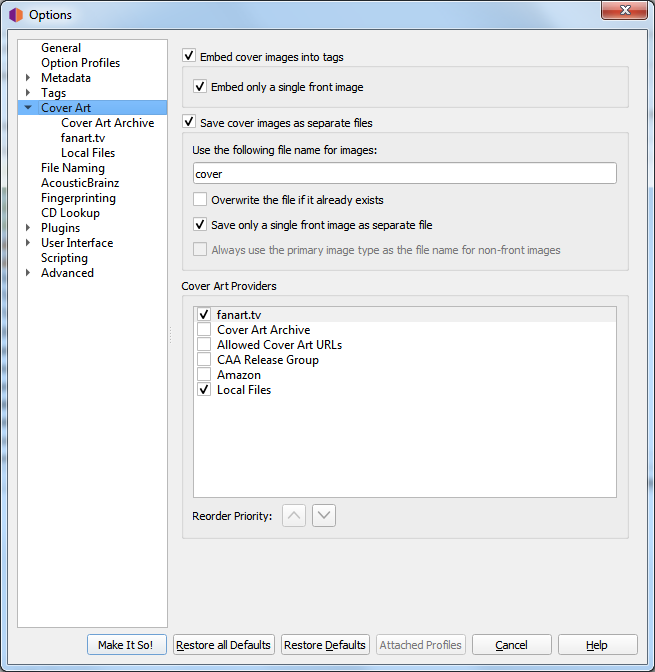
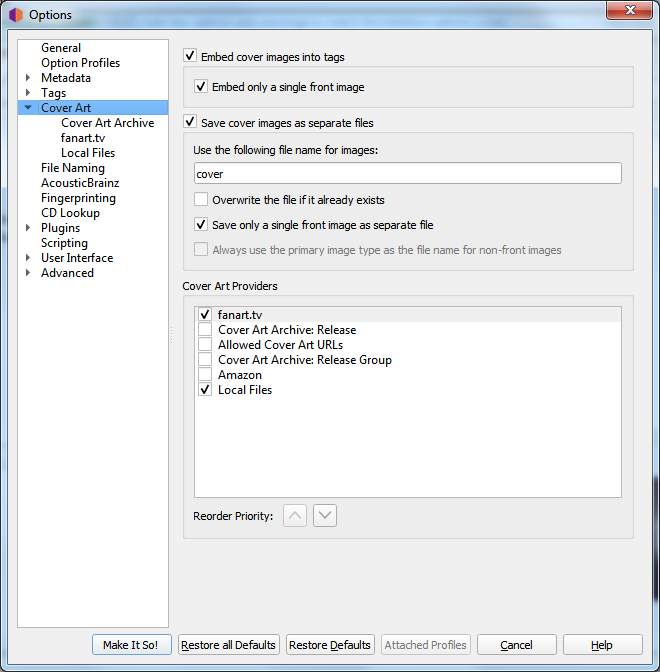
Update wording of cover art providers

diff --git a/config/options_cover_art_providers.rst b/config/options_cover_art_providers.rst
@@ -12,13 +12,13 @@ Picard can download Cover Art from a number of sources, and you can choose which
 use. You can activate more than one provider and choose the order in which the providers
 are queried. Picard will try the providers from top to bottom until an image is returned.
 
-**Cover Art Archive**
+**Cover Art Archive: Release**
 
    The Cover Art Archive (CAA) is the MusicBrainz archive of cover art in cooperation with the `Internet
    Archive <https://archive.org>`_. The Cover Art Archive is the most comprehensive database of cover art
    (e.g.: front covers, back covers, booklets, CDs).
 
-**CAA Release Group**
+**Cover Art Archive: Release Group**
 
    This provider uses the Cover Art Archive cover image assigned to the release group. This is usually the
    image that best describes the release group as a whole or the image with the best visual quality, but is
